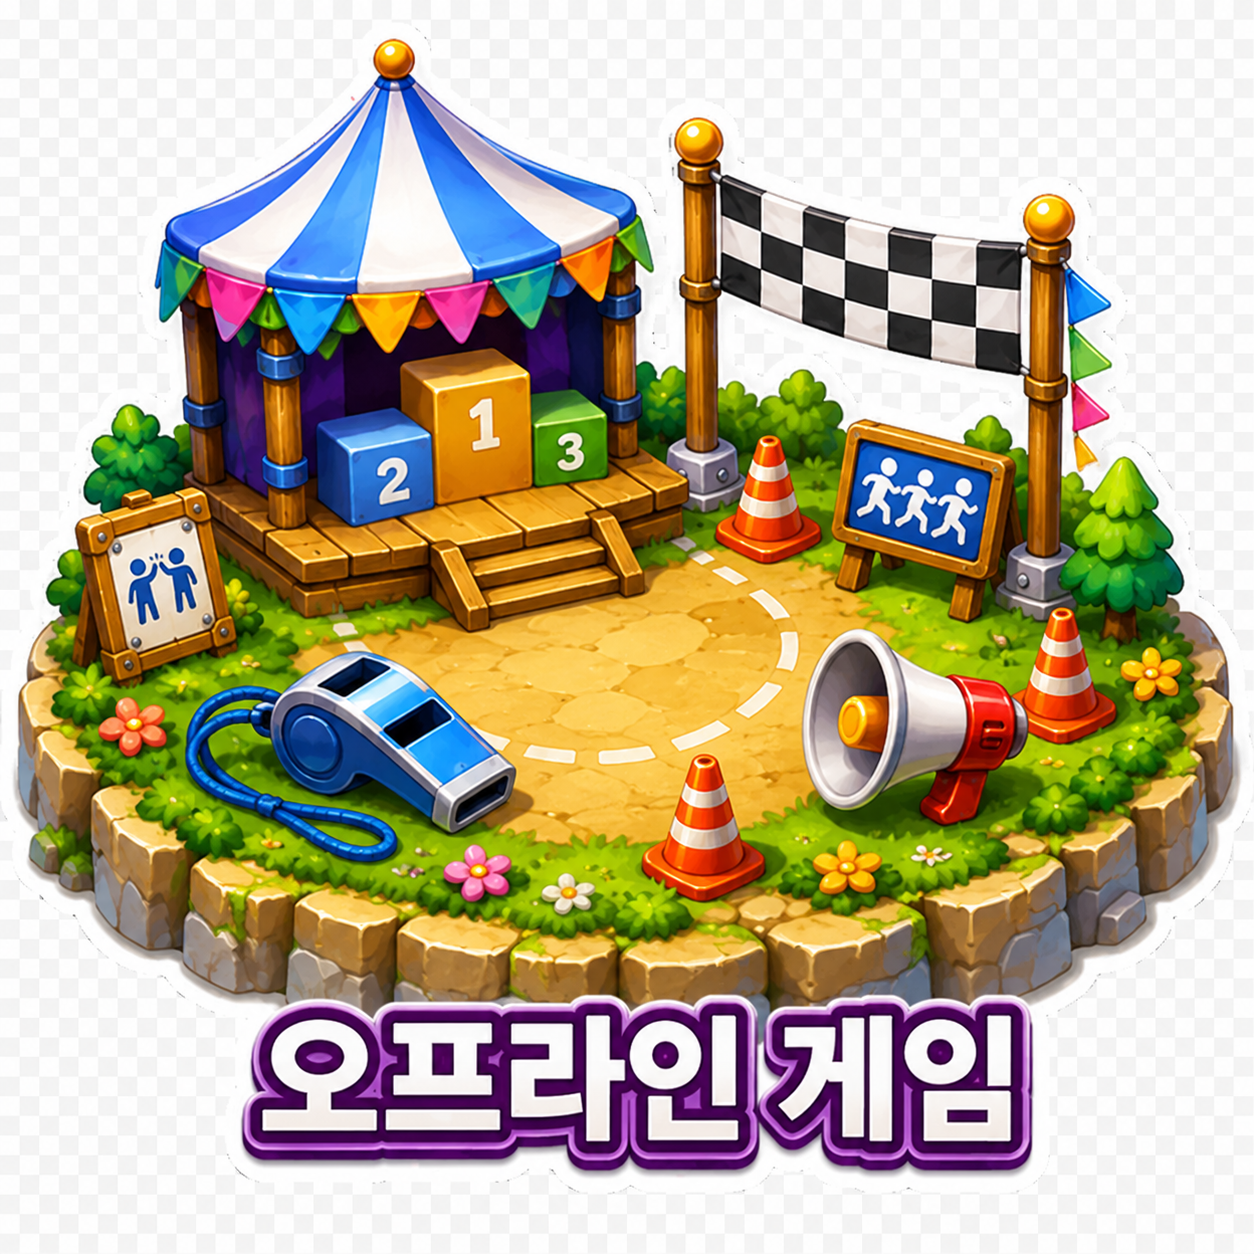
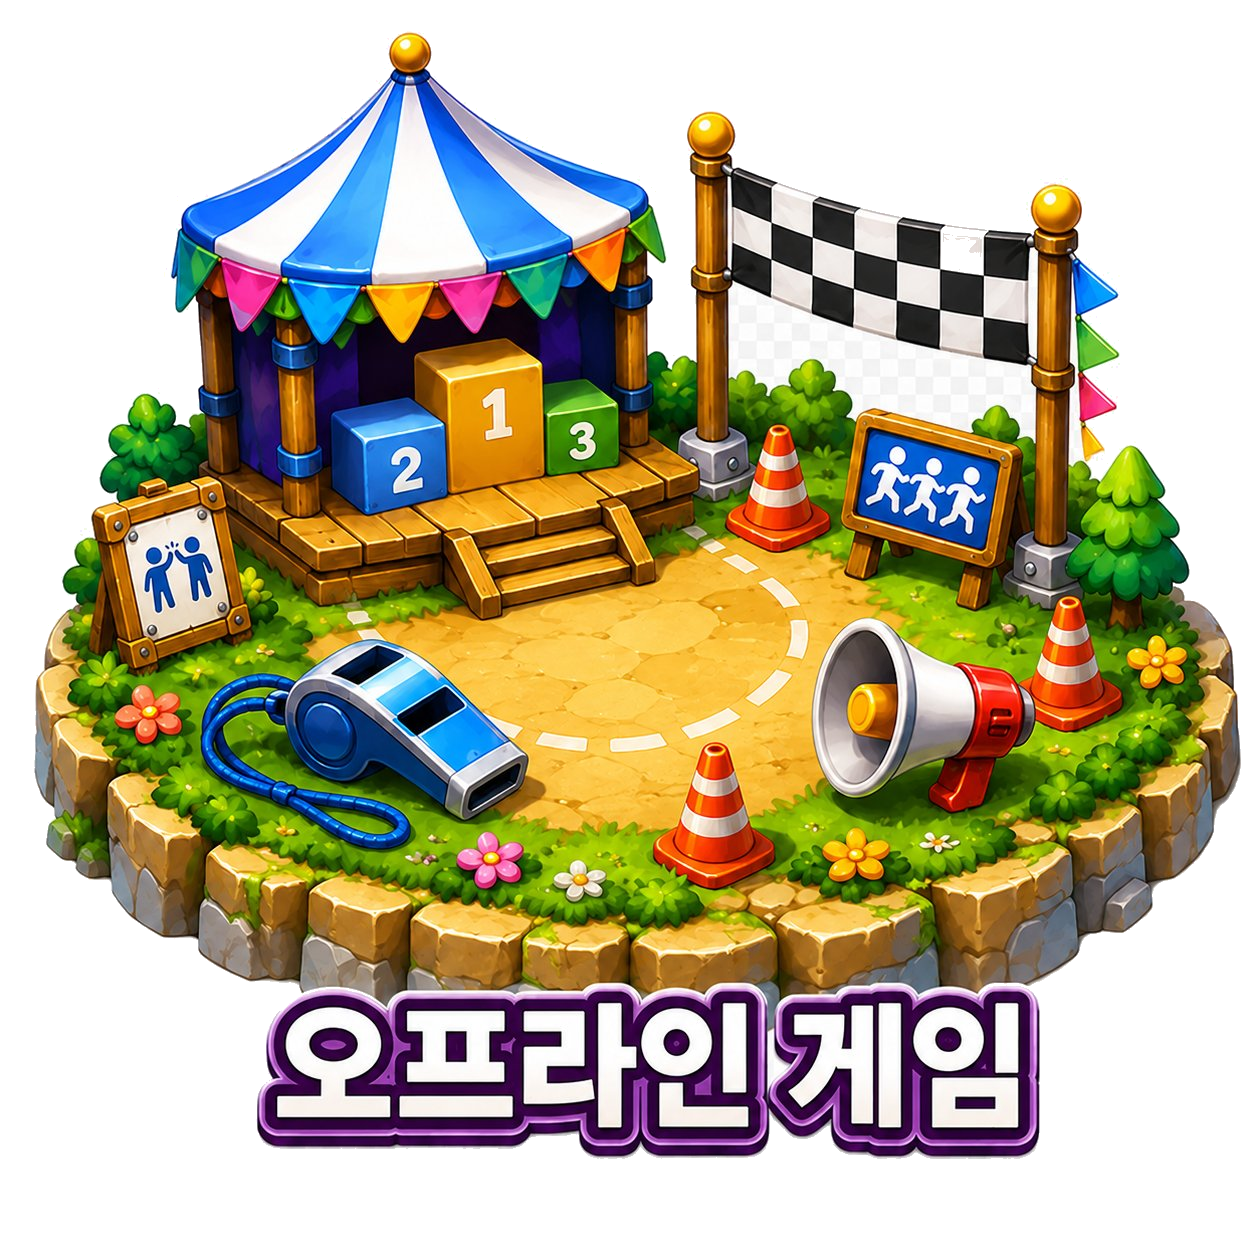
feat: 메인 화면 오프라인 게임 이미지 매핑 추가

diff --git a/frontend/src/pages/MainPage.tsx b/frontend/src/pages/MainPage.tsx
@@ -27,9 +27,13 @@ const GAME_MARKERS_BY_TITLE: Record<string, { image: string }> = {
   '철인 3종': { image: 'triathlon.png' },
   '신발 던지기': { image: 'shoe-throw.png' },
   좀비게임: { image: 'zombie-game.png' },
+  '팀 오프라인 게임': { image: 'offline-game.png' },
+  '개인 오프라인 게임': { image: 'offline-game.png' },
 }
 
-const FALLBACK_MARKERS = Object.values(GAME_MARKERS_BY_TITLE)
+const FALLBACK_MARKERS = [
+  ...new Map(Object.values(GAME_MARKERS_BY_TITLE).map((m) => [m.image, m])).values(),
+]
 const MARKER_X_PATTERN = ['55%', '25%', '72%', '38%', '78%', '24%', '73%', '25%']
 
 function markerTop(index: number, count: number): string {